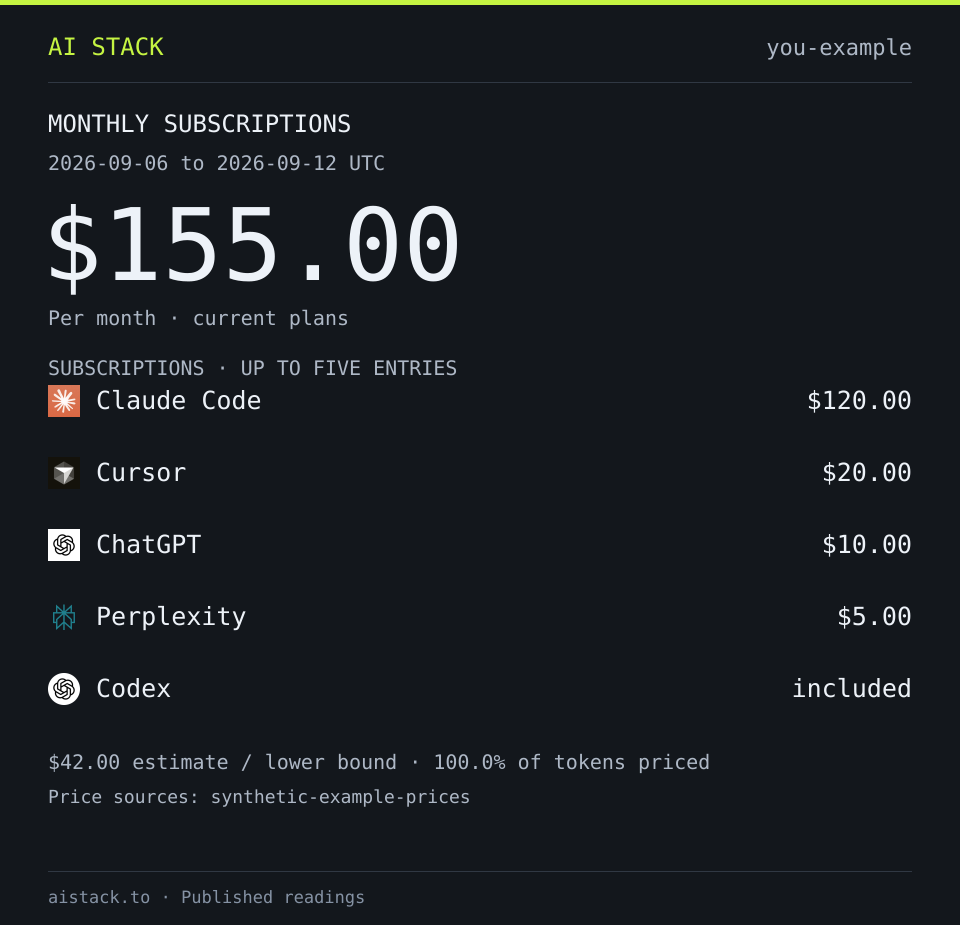
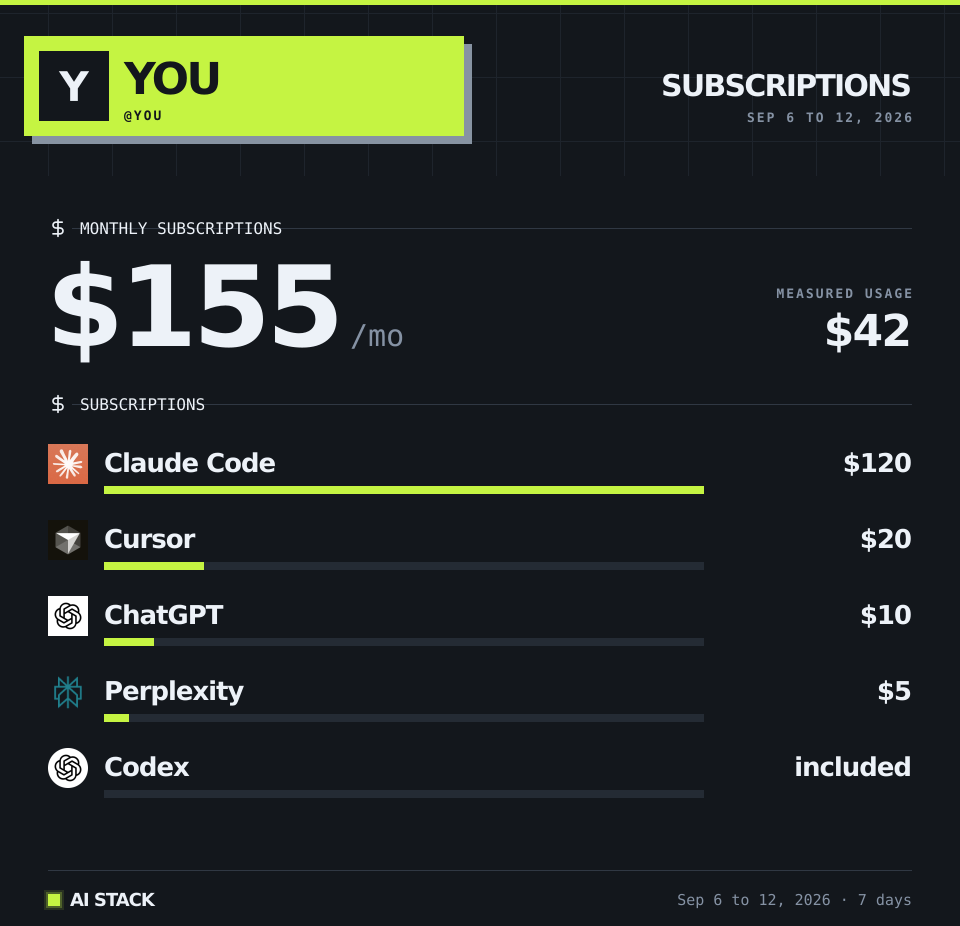
feat(discord): refresh the guide page for the new cards
The five example images are regenerated by the production renderer in the
new design, with short example handles so the name plates read cleanly.
The help sections under the walkthrough are gone: the page is the
walkthrough and the examples. The two columns top-align, so the left text
no longer jumps when the example on the right changes height. The harness
and cost descriptions match what those cards show now.

Claude-Session: https://claude.ai/code/session_01NJkCq8maETrYEF2KhapxsX

diff --git a/src/features/discord/DiscordGuidePage.tsx b/src/features/discord/DiscordGuidePage.tsx
@@ -1,9 +1,5 @@
-import { Link } from "@tanstack/react-router";
 import { useState } from "react";
-import {
-	DISCORD_INSTALL_URL,
-	DISCORD_USER_REAUTHORIZE_URL,
-} from "@/lib/discord";
+import { DISCORD_INSTALL_URL } from "@/lib/discord";
 import compareImage from "./discord-guide-images/compare.png";
 import contextImage from "./discord-guide-images/context.png";
 import costImage from "./discord-guide-images/cost.png";
@@ -23,7 +19,7 @@ const commands = [
 		name: "cost",
 		title: "Understand your costs",
 		description:
-			"See current monthly subscriptions alongside measured usage cost for the selected dates.",
+			"See current monthly subscriptions next to the measured usage cost for the selected dates.",
 		image: costImage,
 	},
 	{
@@ -37,7 +33,7 @@ const commands = [
 		name: "harness",
 		title: "See where you work",
 		description:
-			"See token usage across harnesses, then compare the same harness with another creator.",
+			"See how your tokens split across coding harnesses, then compare the split with another creator.",
 		image: harnessImage,
 	},
 	{
@@ -184,58 +180,6 @@ export function DiscordGuidePage() {
 	return (
 		<main className="dg-section" aria-label="AI Stack on Discord">
 			<Walkthrough selected={selected} onSelect={setSelected} />
-			<section className="dg-help" aria-label="Using the Discord bot">
-				<h2>Choose what to explore</h2>
-				<p>
-					Use <code>/tokens</code> for model usage, <code>/cost</code> for
-					subscriptions and measured costs, <code>/context</code> for context
-					usage, <code>/harness</code> for your coding tools, and{" "}
-					<code>/compare</code> to compare creators.
-				</p>
-				<p>
-					Use the reply controls to change the date range, select a person, or
-					open a full list. Context and harness replies also let you choose a
-					harness. The person who requested a reply controls it. Run the command
-					again when its controls expire.
-				</p>
-				<p>
-					You can also browse stacks with <code>/stack</code>, rankings with{" "}
-					<code>/leaderboard</code>, and models with <code>/model</code>. Only
-					publicly shared readings appear. Example amounts above are synthetic
-					and are not current vendor prices.
-				</p>
-			</section>
-			<section className="dg-help" aria-label="Discord help">
-				<h2>Get connected</h2>
-				<h3>Use your own stack</h3>
-				<p>
-					Run <code>/link</code> in Discord and open its private link to connect
-					your AI Stack account. You can browse another creator without linking.
-				</p>
-				<Link className="dg-text-link" to="/link/discord">
-					Manage your Discord account
-				</Link>
-				<h3>Missing commands?</h3>
-				<p>
-					Restart Discord and try <code>/cost</code>. For a personal
-					installation, you can authorize AI Stack again and review the
-					permissions in Discord, then check the command list.
-				</p>
-				<a
-					className="dg-text-link"
-					href={DISCORD_USER_REAUTHORIZE_URL}
-					target="_blank"
-					rel="noreferrer"
-				>
-					Reauthorize your personal installation
-				</a>
-				<h3>No reading for your stack?</h3>
-				<p>
-					Check that you have published a stack and synced your usage. Costs and
-					context also depend on what you choose to share. Try a wider date
-					range or another creator.
-				</p>
-			</section>
 		</main>
 	);
 }

diff --git a/src/features/discord/guide.test.tsx b/src/features/discord/guide.test.tsx
@@ -2,10 +2,7 @@
 import { cleanup, fireEvent, render, screen } from "@testing-library/react";
 import { renderToString } from "react-dom/server";
 import { afterEach, expect, test, vi } from "vitest";
-import {
-	DISCORD_INSTALL_URL,
-	DISCORD_USER_REAUTHORIZE_URL,
-} from "@/lib/discord";
+import { DISCORD_INSTALL_URL } from "@/lib/discord";
 import { DiscordGuidePage } from "./DiscordGuidePage";
 
 vi.mock("@tanstack/react-router", () => ({
@@ -28,8 +25,8 @@ test("public guide renders complete setup and an example before hydration", () =
 	const html = renderToString(<DiscordGuidePage />);
 	expect(html).toContain("<h1>");
 	expect(html).toContain("Synthetic /tokens example");
-	expect(html).toContain("Missing commands?");
-	expect(html).toContain("/link/discord");
+	expect(html).toContain("Connect your stack (optional)");
+	expect(html).not.toContain("Choose what to explore");
 });
 
 test("five example controls update images while install and account actions remain distinct", () => {
@@ -48,12 +45,4 @@ test("five example controls update images while install and account actions rema
 		"href",
 		DISCORD_INSTALL_URL,
 	);
-	expect(
-		screen.getByRole("link", { name: "Manage your Discord account" }),
-	).toHaveAttribute("href", "/link/discord");
-	expect(
-		screen.getByRole("link", {
-			name: "Reauthorize your personal installation",
-		}),
-	).toHaveAttribute("href", DISCORD_USER_REAUTHORIZE_URL);
 });

diff --git a/src/features/discord/discord-guide.css b/src/features/discord/discord-guide.css
@@ -46,7 +46,8 @@
 	display: grid;
 	grid-template-columns: 0.85fr 1.15fr;
 	gap: 52px;
-	align-items: center;
+	/* Top-aligned, so the text stays put while the example on the right changes height. */
+	align-items: start;
 }
 .dg-steps {
 	margin: 32px 0 0;
@@ -164,9 +165,3 @@
 		padding: 10px;
 	}
 }
-
-.dg-help { margin-top: 40px; border-top: 1px solid #30362d; padding-top: 32px; max-width: 800px; }
-.dg-help h2 { font-size: 24px; font-weight: 600; margin-bottom: 16px; }
-.dg-help h3 { font-family: monospace; font-size: 15px; font-weight: 600; margin-top: 24px; margin-bottom: 8px; }
-.dg-help p { color: #b6bdb1; font-size: 15px; line-height: 1.7; margin-bottom: 16px; }
-.dg-text-link { color: var(--accent-lime, #c5f74f); font: 13px monospace; text-decoration: underline; text-underline-offset: 4px; }

diff --git a/scripts/discord-guide-images.ts b/scripts/discord-guide-images.ts
@@ -130,7 +130,7 @@ function answer(
 		identity: {
 			creatorId: handle,
 			stackId: handle,
-			handle: `${handle}-example`,
+			handle,
 			name: `${handle} (example)`,
 			avatarUrl: null,
 			profileUrl: "https://aistack.to",

diff --git a/src/features/discord/discord-guide-images/README.md b/src/features/discord/discord-guide-images/README.md
@@ -7,13 +7,14 @@ or a real creator's published reading. The public guide labels them as synthetic
 Regenerate from the repository root with:
 
 ```sh
-pnpm exec tsx scripts/discord-guide-images.ts
+pnpm dlx tsx scripts/discord-guide-images.ts
 ```
 
 The generator preserves the selected homepage prototype's usage totals, model
 shares and four paid subscription examples. Included Codex fills the fifth
 subscription preview entry without changing the illustrative monthly total.
-All cost cards retain coverage, lower-bound language and the explicit
+The cards print bare dollar figures (the owner's exception to the citation
+rule, see `docs/discord-renderer.md`); the fixtures still carry the explicit
 `synthetic-example-prices` source. Existing app brand icons are embedded locally.
 No database, external API or Discord account is involved.
 
